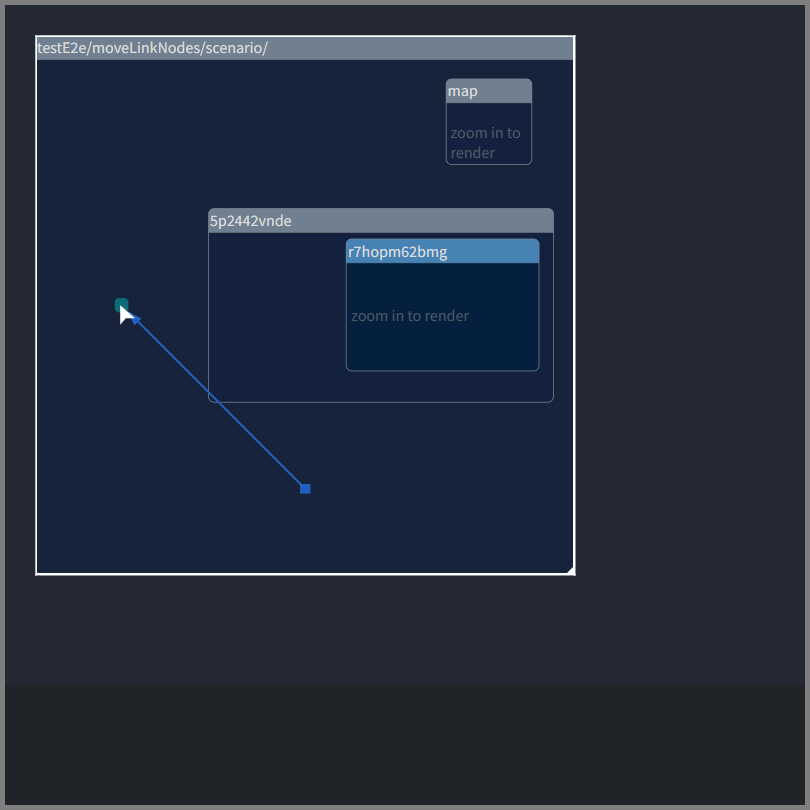
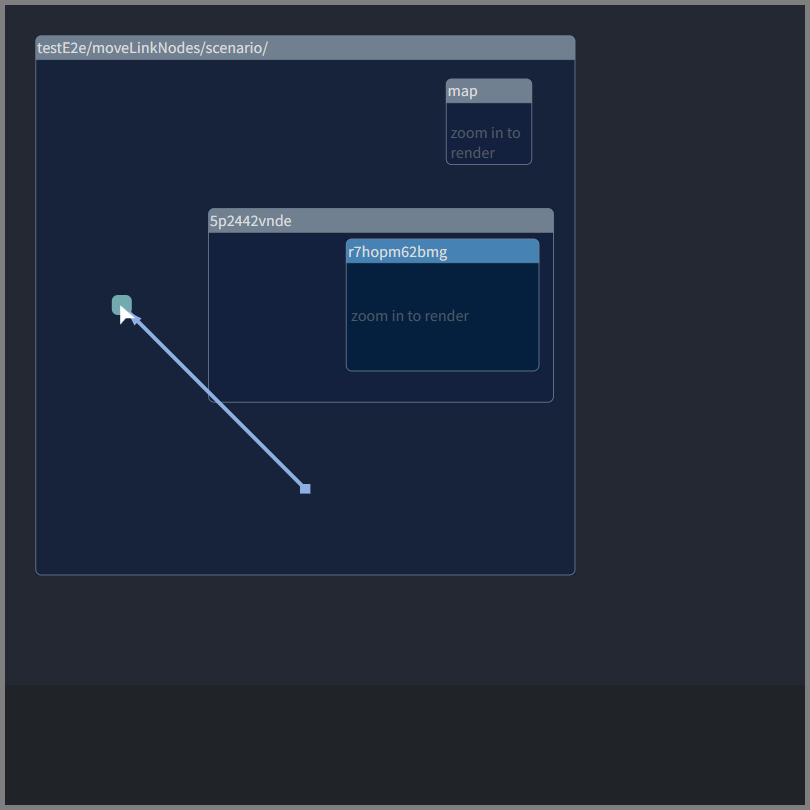
add highlighting to LinkNodes when they are hovered or dragging entered

diff --git a/src/core/node/NodeWidget.ts b/src/core/node/NodeWidget.ts
@@ -14,8 +14,10 @@ import * as contextMenu from '../contextMenu'
 import { AbstractNodeWidget } from '../AbstractNodeWidget'
 import { Link } from '../link/Link'
 import { Style } from '../util/RenderElement'
+import { HoverManager } from '../HoverManager'
+import { Hoverable } from '../Hoverable'
 
-export class NodeWidget extends AbstractNodeWidget implements DropTarget, Draggable<Box> { // TODO: rename to LinkNodeWidget
+export class NodeWidget extends AbstractNodeWidget implements DropTarget, Draggable<Box>, Hoverable { // TODO: rename to LinkNodeWidget
     private readonly mapData: NodeData
     private managingBox: Box // TODO: rename to parent?
     public readonly borderingLinks: BorderingLinks
@@ -25,6 +27,7 @@ export class NodeWidget extends AbstractNodeWidget implements DropTarget, Dragga
     private dragState: {
         positionInManagingBoxCoords: LocalPosition
     } | null = null
+    private highlight: boolean = false
 
     public constructor(mapData: NodeData, managingBox: Box) {
         super()
@@ -103,29 +106,31 @@ export class NodeWidget extends AbstractNodeWidget implements DropTarget, Dragga
 
     public async render(priority: RenderPriority = RenderPriority.NORMAL): Promise<void> {
         this.renderInProgress = true
-        const proms: Promise<any>[] = []
+        const pros: Promise<any>[] = []
 
         const position: LocalPosition = this.getRenderPosition()
+        const radiusInPx = this.highlight ? 10 : 7
         const style: Style = {
             position: 'absolute',
             top: position.percentY+'%',
             left: position.percentX+'%',
-            width: '14px',
-            height: '14px',
-            transform: 'translate(-7px,-7px)',
+            width: radiusInPx*2+'px',
+            height: radiusInPx*2+'px',
+            transform: `translate(-${radiusInPx}px,-${radiusInPx}px)`,
             borderRadius: '30%',
-            backgroundColor: '#0aa8'
+            backgroundColor: this.highlight ? '#8ccc' : '#0aa8'
         }
-        proms.push(renderManager.setStyleTo(this.getId(), style, priority))
+        pros.push(renderManager.setStyleTo(this.getId(), style, priority))
 
         if (!this.rendered) {
-            proms.push(this.borderingLinks.renderAll())
-            proms.push(relocationDragManager.addDropTarget(this))
-            proms.push(relocationDragManager.addDraggable(this, priority))
-            proms.push(renderManager.addEventListenerTo(this.getId(), 'contextmenu', (clientX: number, clientY: number) => contextMenu.openForNode(this, new ClientPosition(clientX, clientY))))
+            pros.push(this.borderingLinks.renderAll())
+            pros.push(relocationDragManager.addDropTarget(this))
+            pros.push(relocationDragManager.addDraggable(this, priority))
+            pros.push(HoverManager.addHoverable(this, () => this.onHoverOver(), () => this.onHoverOut()))
+            pros.push(renderManager.addEventListenerTo(this.getId(), 'contextmenu', (clientX: number, clientY: number) => contextMenu.openForNode(this, new ClientPosition(clientX, clientY))))
         }
         
-        await Promise.all(proms)
+        await Promise.all(pros)
         this.rendered = true
         this.renderInProgress = false
     }
@@ -135,22 +140,41 @@ export class NodeWidget extends AbstractNodeWidget implements DropTarget, Dragga
             return
         }
         this.unrenderInProgress = true
-        const proms: Promise<any>[] = []
-        proms.push(this.borderingLinks.renderAll()) // otherwise borderingLinks would not float back to border of parent
-        proms.push(relocationDragManager.removeDropTarget(this))
-        proms.push(relocationDragManager.removeDraggable(this, priority))
-        proms.push(renderManager.removeEventListenerFrom(this.getId(), 'contextmenu'))
-        await Promise.all(proms)
+        const pros: Promise<any>[] = []
+        pros.push(this.borderingLinks.renderAll()) // otherwise borderingLinks would not float back to border of parent
+        pros.push(relocationDragManager.removeDropTarget(this))
+        pros.push(relocationDragManager.removeDraggable(this, priority))
+        pros.push(HoverManager.removeHoverable(this)),
+        pros.push(renderManager.removeEventListenerFrom(this.getId(), 'contextmenu'))
+        await Promise.all(pros)
         this.rendered = false // TODO: implement rerenderAfter(Un)RenderFinished mechanism?
         this.unrenderInProgress = false
     }
 
+    private async onHoverOver(): Promise<void> {
+        this.highlight = true
+        await Promise.all([
+            this.render(RenderPriority.RESPONSIVE),
+            this.borderingLinks.setHighlightAllThatShouldBeRendered(true)
+        ])
+    }
+    
+    private async onHoverOut(): Promise<void> {
+        this.highlight = false
+        await Promise.all([
+            this.render(RenderPriority.RESPONSIVE),
+            this.borderingLinks.setHighlightAllThatShouldBeRendered(false)
+        ])
+    }
+
     public async onDragEnter(): Promise<void> {
-        return Promise.resolve() // TODO: highlight
+        this.highlight = true
+        await this.render(RenderPriority.RESPONSIVE)
     }
 
     public async onDragLeave(): Promise<void> {
-        return Promise.resolve() // TODO: stop highlight
+        this.highlight = false
+        await this.render(RenderPriority.RESPONSIVE)
     }
 
     public getDropTargetAtDragStart(): Box {

diff --git a/test/core/link/LinkEnd.test.ts b/test/core/link/LinkEnd.test.ts
@@ -14,6 +14,7 @@ import * as boxFactory from '../box/factories/boxFactory'
 import * as linkEndFactory from './factories/linkEndFactory'
 import { LinkData } from '../../../src/core/mapData/LinkData'
 import { ClientRect } from '../../../src/core/ClientRect'
+import { HoverManager } from '../../../src/core/HoverManager'
 
 const actualLogWarning: (message: string) => void = util.logWarning
 
@@ -322,6 +323,7 @@ async function setupRenderedScenarioWithDepthAndNode(): Promise<{
     const scene = setupRenderedScenarioWithDepth()
     const boxMapLinkData = new LinkData('linkId', scene.linkEndData, scene.linkEndData)
     scene.linkEnd.getReferenceLink().getData = () => boxMapLinkData
+    HoverManager.addHoverable = () => Promise.resolve()
     await scene.innerBox.nodes.add(new NodeData('nodeId', 75, 25))
     return { ...scene, node: scene.innerBox.nodes.getNodeById('nodeId')! }
 }

diff --git a/src/core/HoverManager.ts b/src/core/HoverManager.ts
@@ -4,7 +4,7 @@ import { relocationDragManager } from './RelocationDragManager'
 import { ScaleManager } from './ScaleManager'
 import { util } from './util/util'
 
-export class HoverManager {
+export class HoverManager { // rename to FocusManager as it describes better that this ensures that only one Widget is focused/hovered?
 
   private static readonly hoverables: Map<string, EventListenerCallback> = new Map()
 
